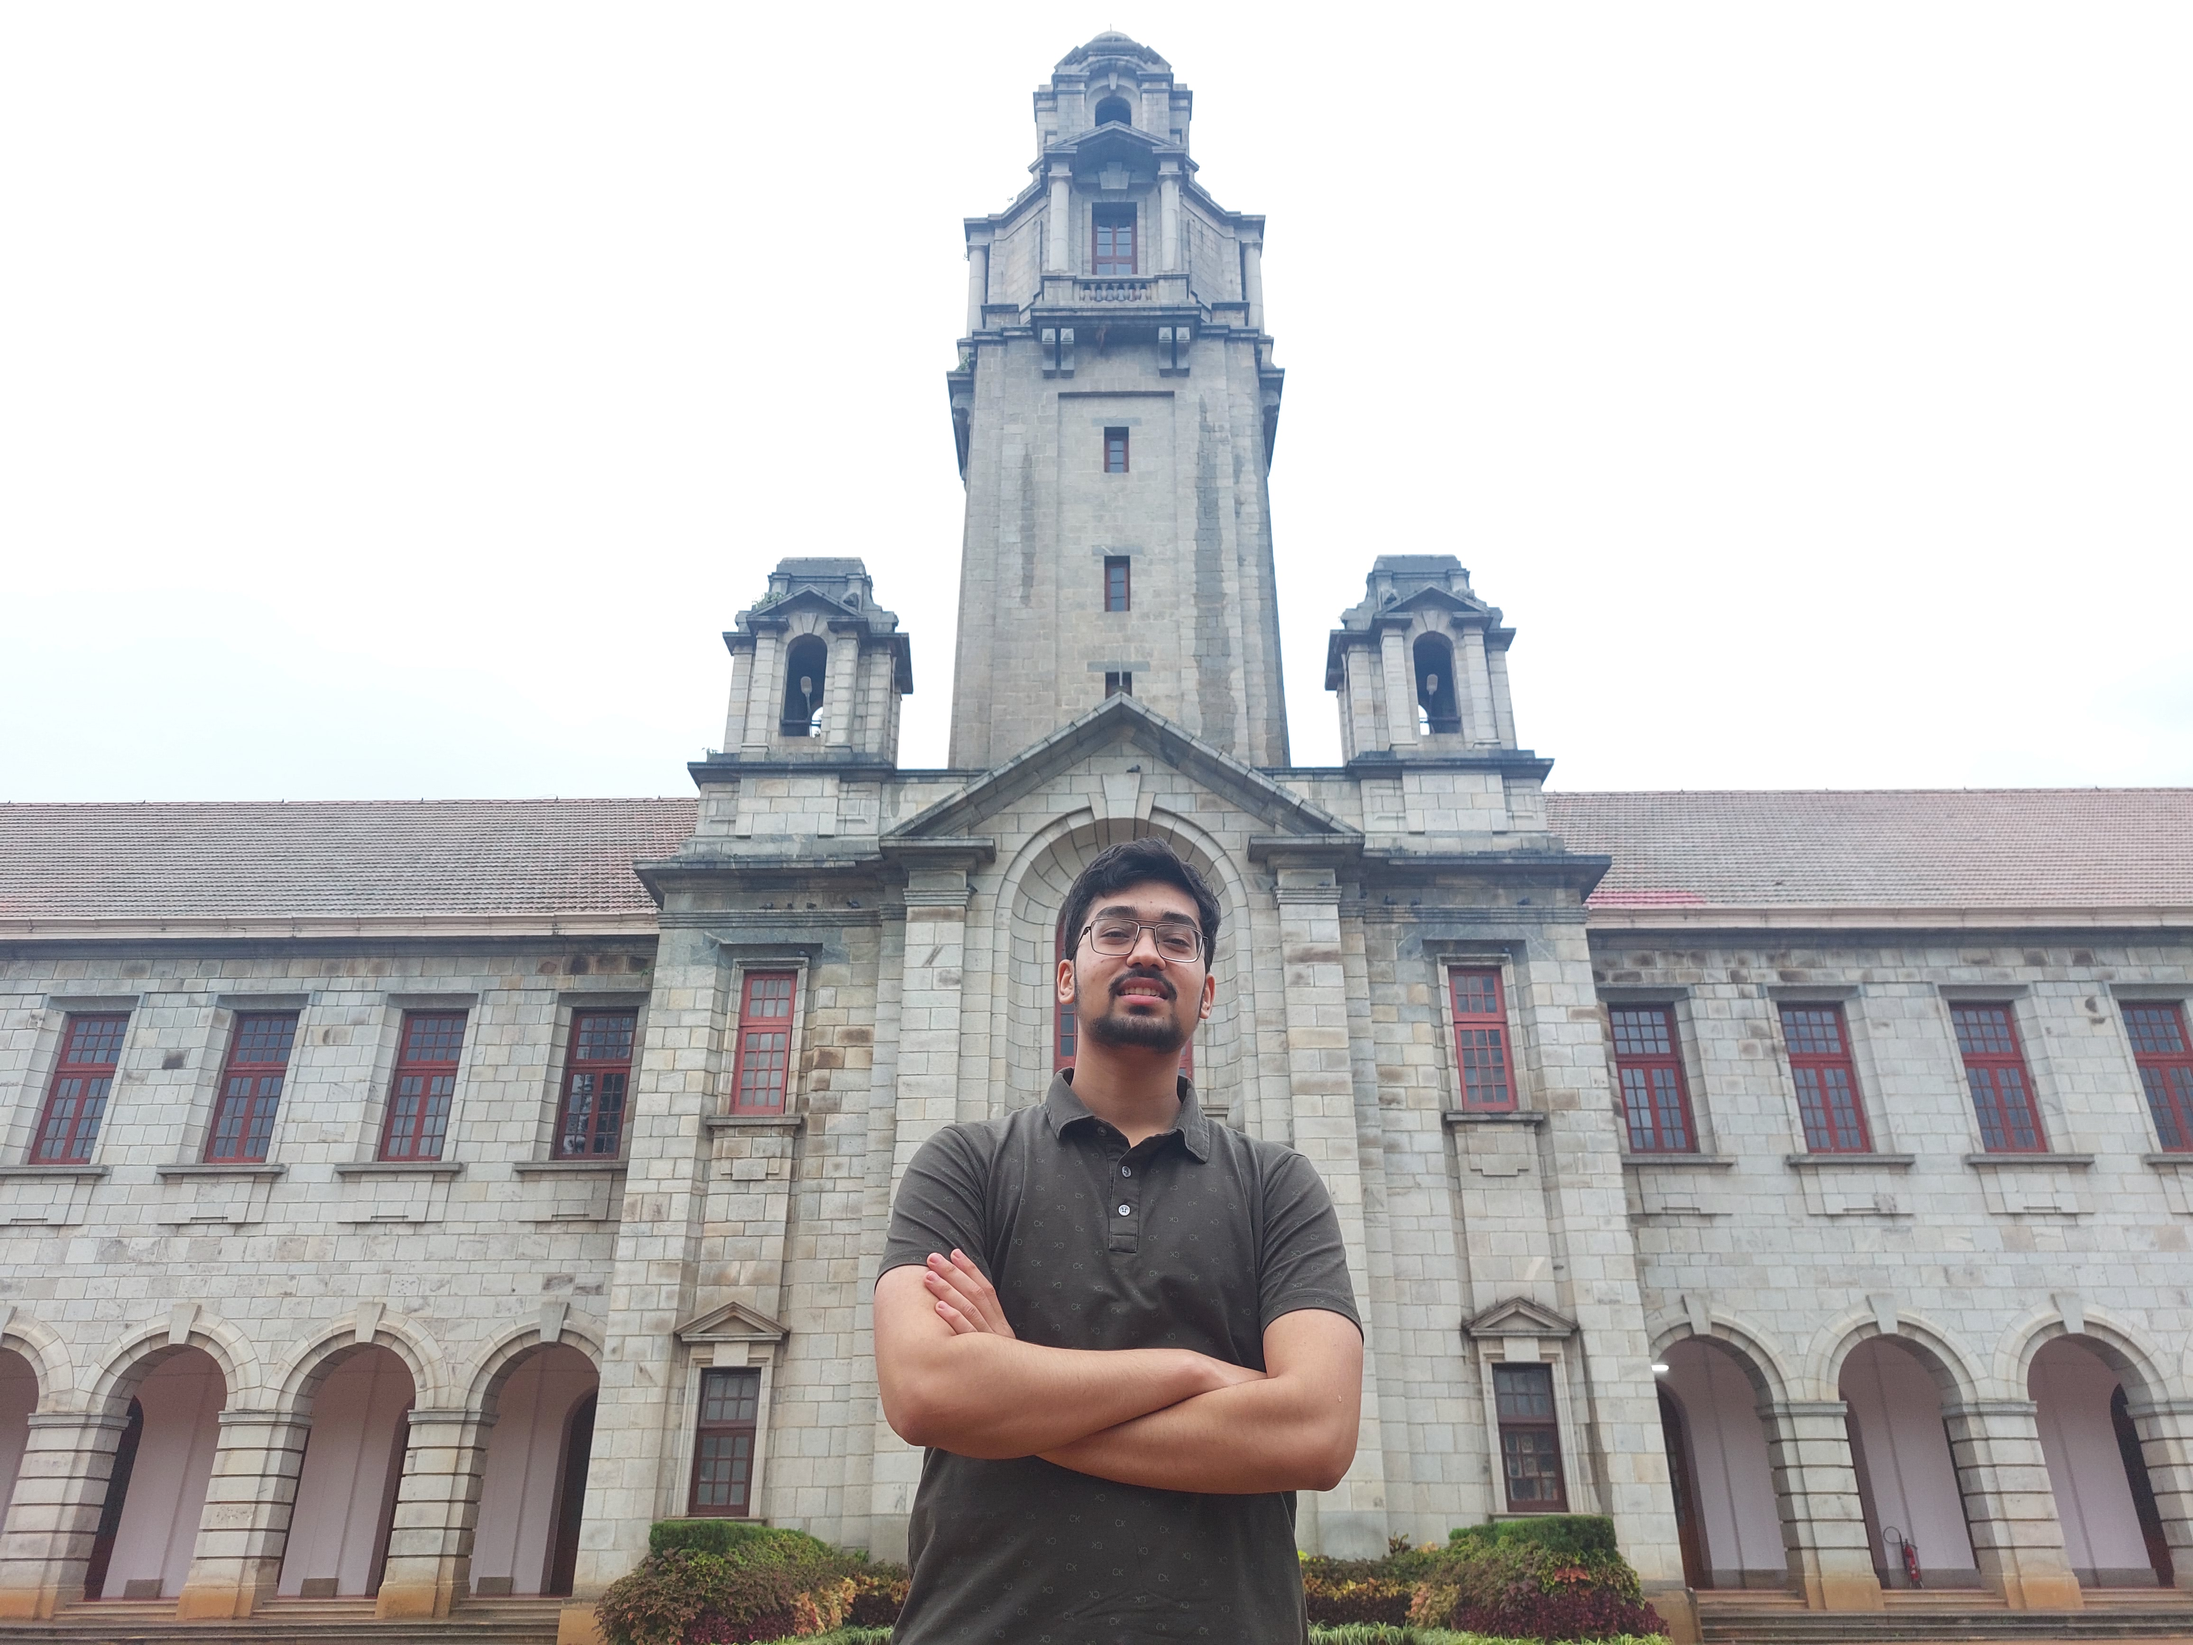
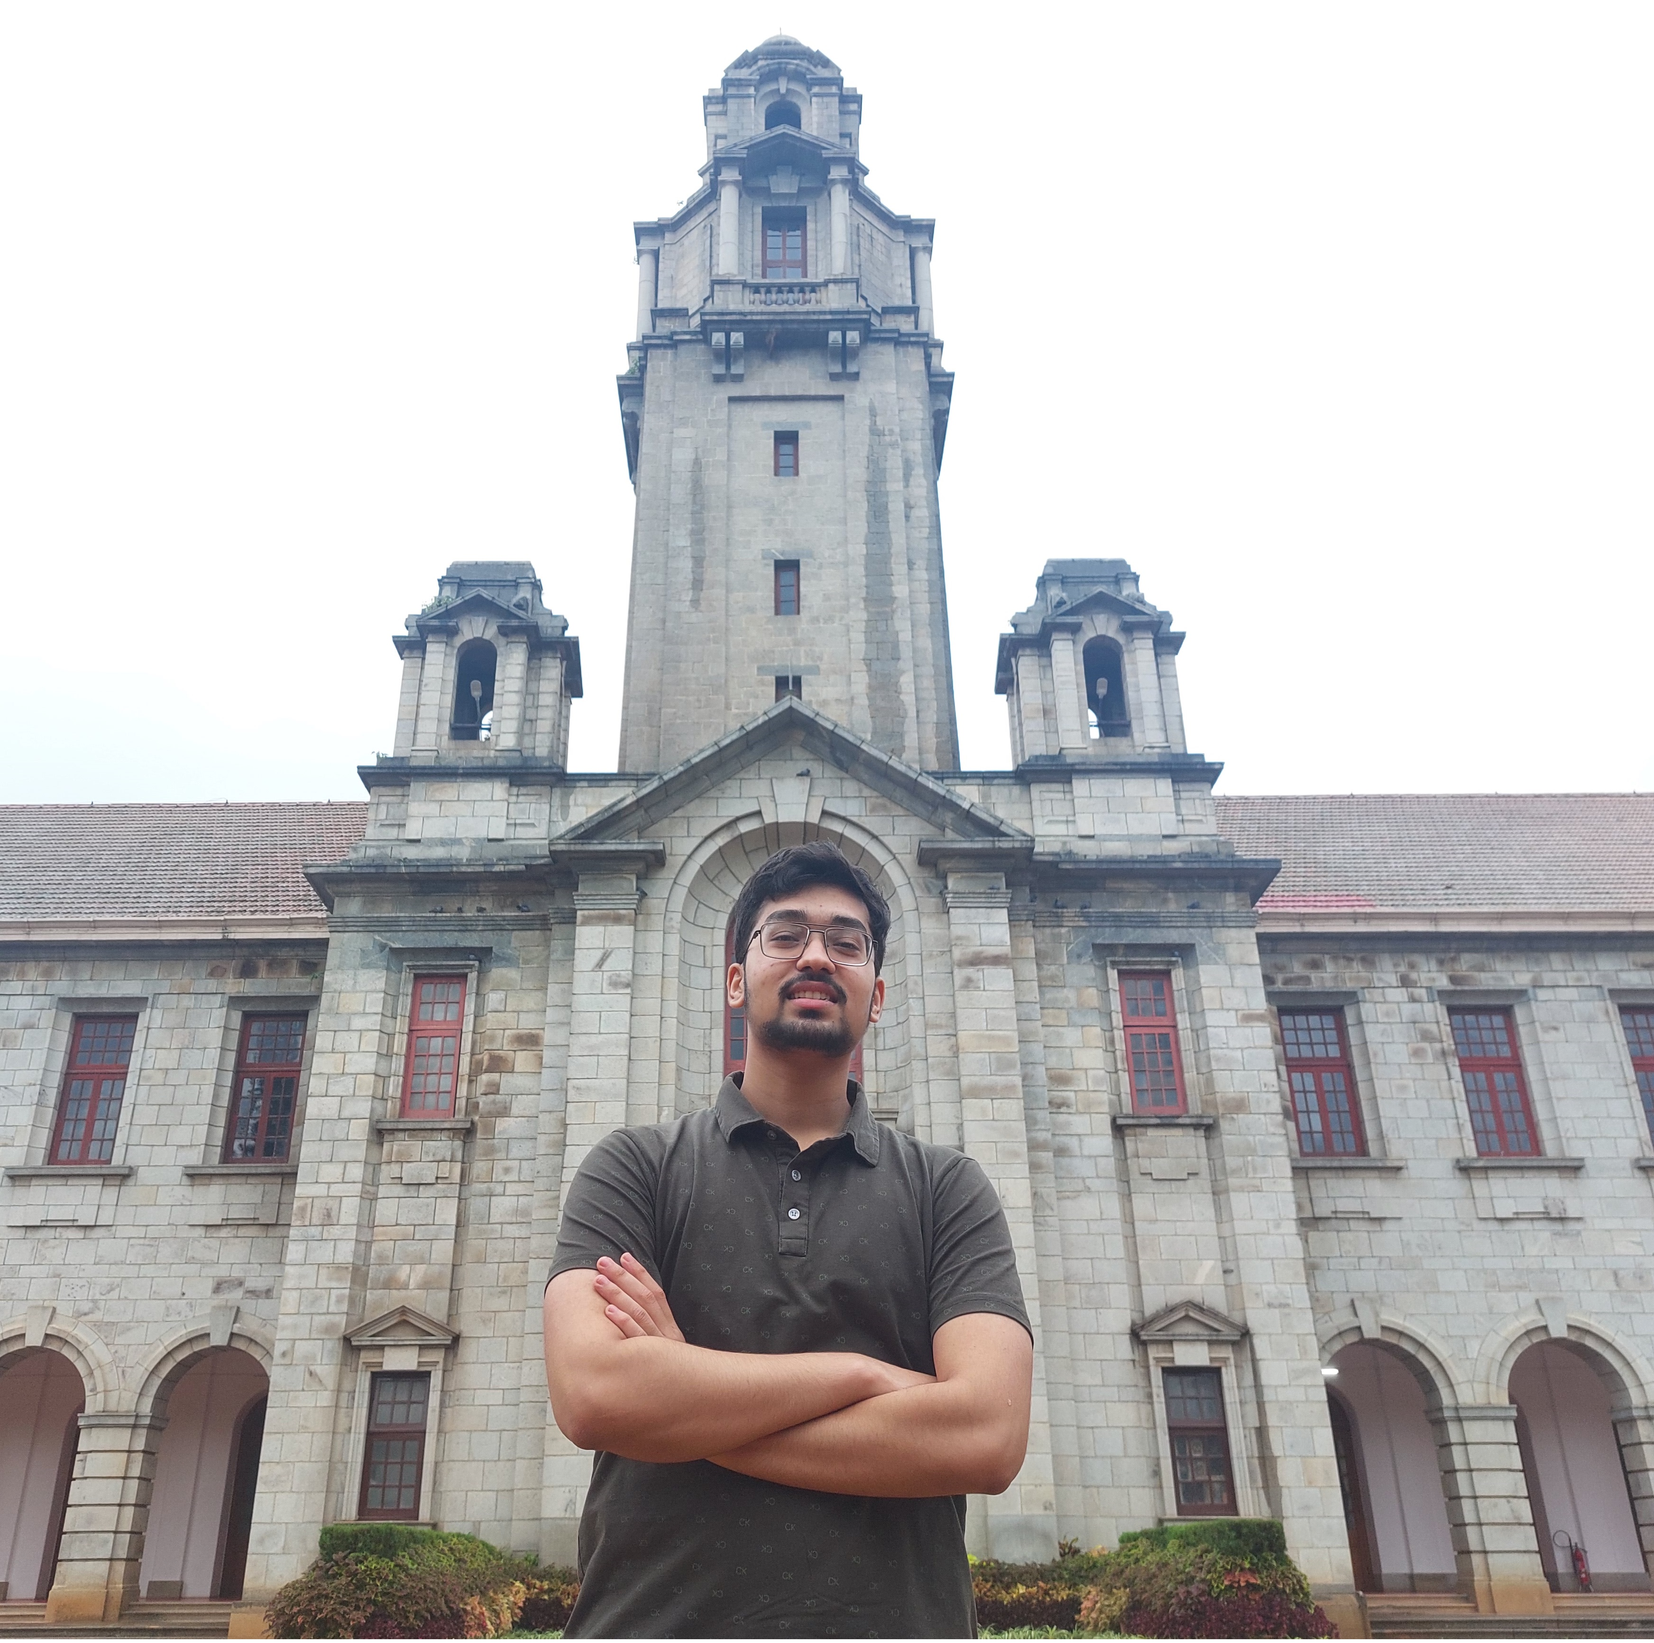
changes

diff --git a/_pages/about.md b/_pages/about.md
@@ -7,7 +7,7 @@ subtitle: Senior Year at <a href='https://www.iitp.ac.in/'>IIT Patna, India</a>.
 profile:
   align: right
   image: danish.jpg
-  image_circular: true # crops the image to make it circular
+  image_circular: false # crops the image to make it circular
   more_info: >
     <p>EE Department,</p>
     <p>IIT Patna,</p>
